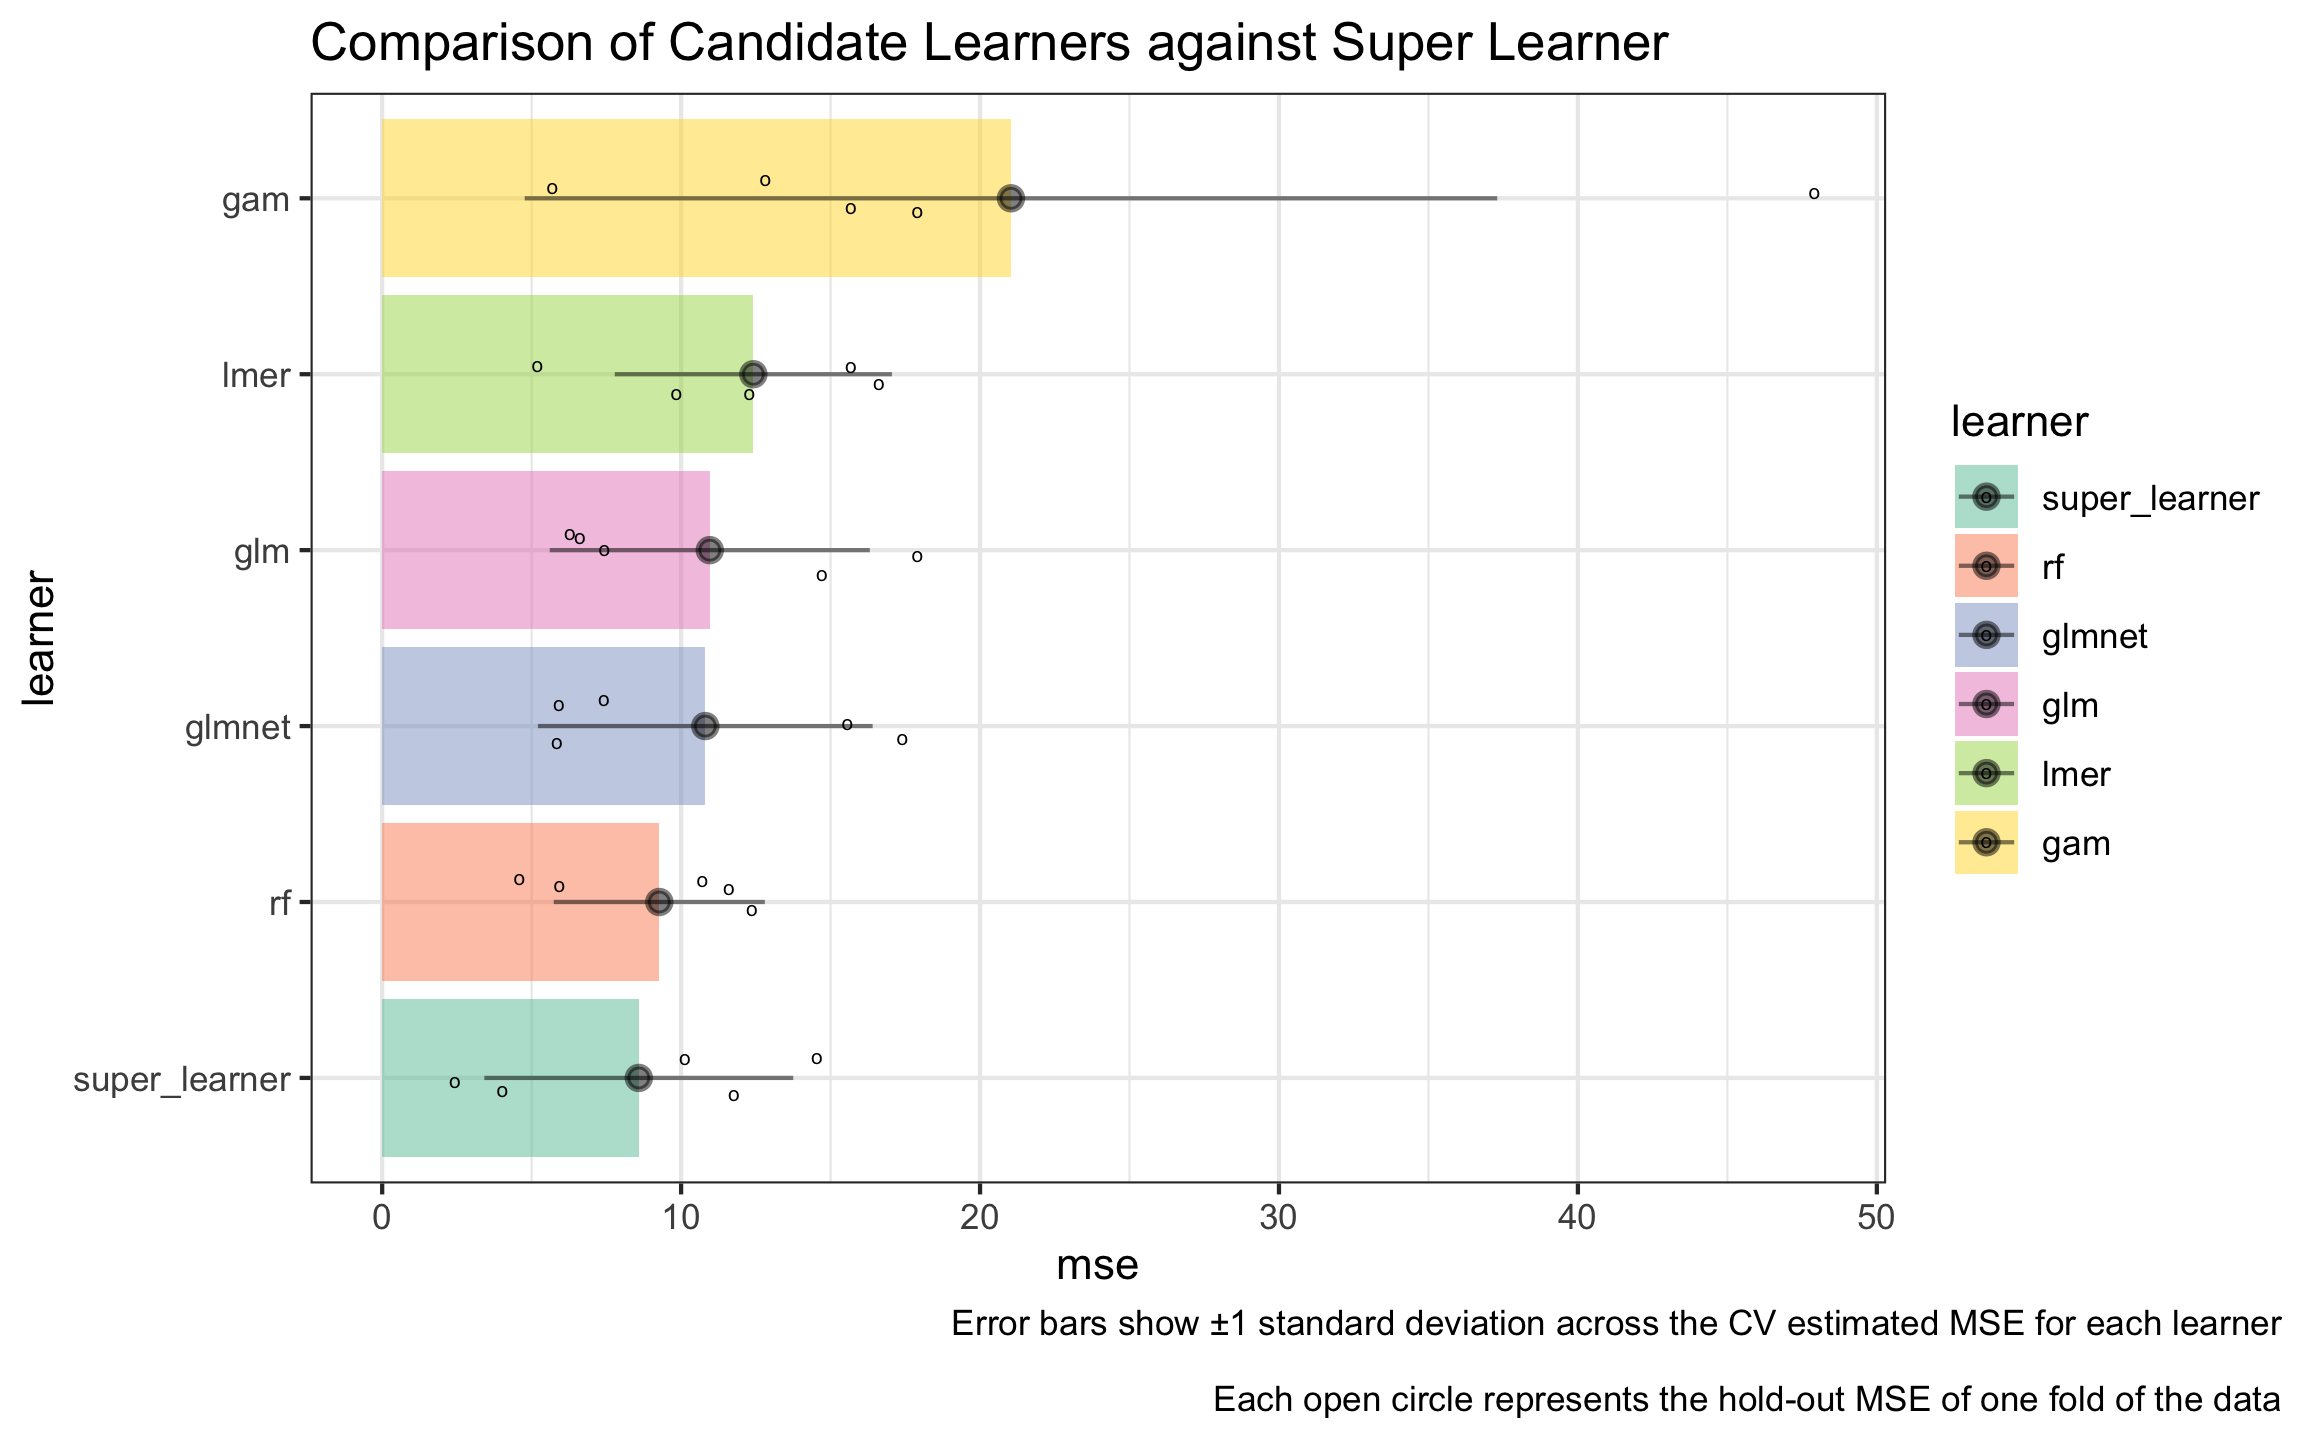
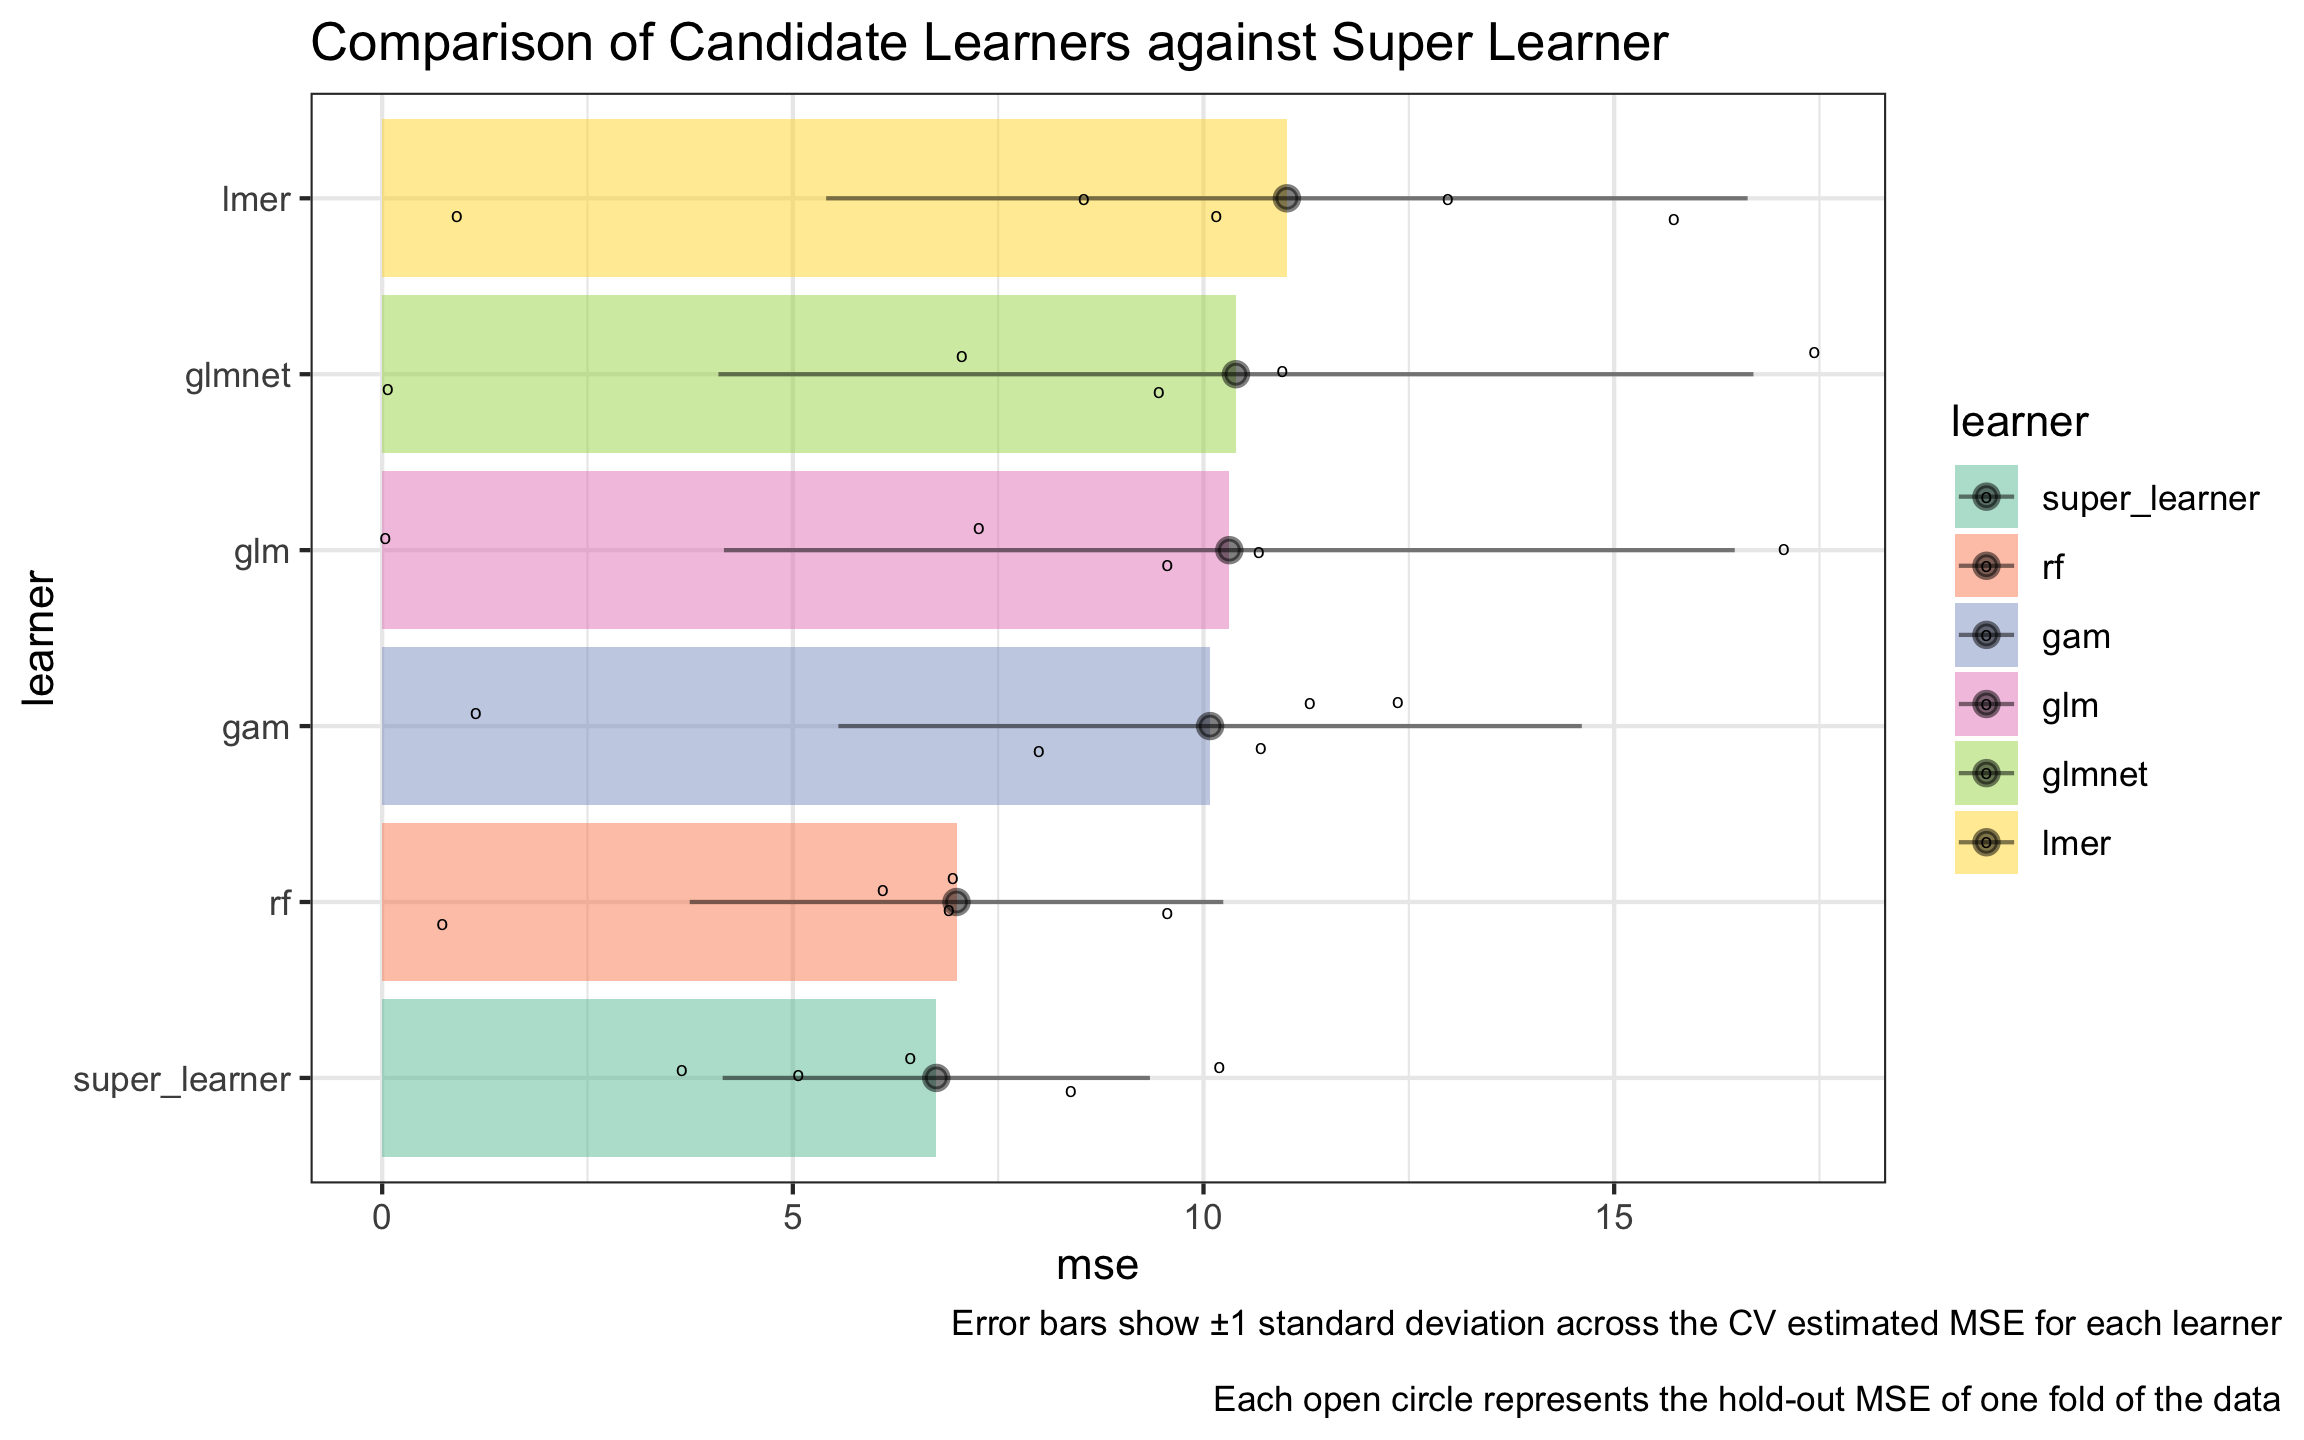
Changes to pass devtools::check()

diff --git a/README.md b/README.md
@@ -100,9 +100,9 @@ sl_model(mtcars) |> head()
 ```
 
     ##         Mazda RX4     Mazda RX4 Wag        Datsun 710    Hornet 4 Drive 
-    ##          20.36228          20.36228          24.89787          20.36228 
+    ##          20.78838          20.78798          24.21258          20.28348 
     ## Hornet Sportabout           Valiant 
-    ##          16.95507          19.93187
+    ##          17.73617          18.84018
 
 ### One Step Up: Fancy Formula Features
 
@@ -136,9 +136,9 @@ sl_model(mtcars) |> head()
 ```
 
     ##         Mazda RX4     Mazda RX4 Wag        Datsun 710    Hornet 4 Drive 
-    ##          20.44673          20.44673          24.86184          20.44673 
+    ##          20.59195          20.62712          24.25456          20.12639 
     ## Hornet Sportabout           Valiant 
-    ##          16.87359          20.08569
+    ##          17.66645          18.92455
 
 ### How should we assess performance of `nadir::super_learner()`?
 
@@ -170,7 +170,7 @@ compare_learners(sl_model)
     ## # A tibble: 1 × 5
     ##     glm    rf glmnet  lmer   gam
     ##   <dbl> <dbl>  <dbl> <dbl> <dbl>
-    ## 1  11.0  9.27   10.8  12.4  21.0
+    ## 1  10.3  6.99   10.4  11.0  10.1
 
 <details>
 <summary>
@@ -290,16 +290,16 @@ cv_results
 
     ## $cv_trained_learners
     ## # A tibble: 5 × 4
-    ##   split learned_predictor predictions mpg       
-    ##   <int> <list>            <list>      <list>    
-    ## 1     1 <function>        <dbl [11]>  <dbl [11]>
-    ## 2     2 <function>        <dbl [6]>   <dbl [6]> 
-    ## 3     3 <function>        <dbl [3]>   <dbl [3]> 
-    ## 4     4 <function>        <dbl [6]>   <dbl [6]> 
-    ## 5     5 <function>        <dbl [6]>   <dbl [6]> 
+    ##   split learned_predictor predictions mpg      
+    ##   <int> <list>            <list>      <list>   
+    ## 1     1 <function>        <dbl [7]>   <dbl [7]>
+    ## 2     2 <function>        <dbl [6]>   <dbl [6]>
+    ## 3     3 <function>        <dbl [6]>   <dbl [6]>
+    ## 4     4 <function>        <dbl [5]>   <dbl [5]>
+    ## 5     5 <function>        <dbl [8]>   <dbl [8]>
     ## 
     ## $cv_loss
-    ## [1] 9.403117
+    ## [1] 7.053775
 
 <details>
 <summary>
@@ -369,9 +369,9 @@ compare_learners(sl_model_iris)
     ## Other metrics can be set using the loss_metric argument to compare_learners.
 
     ## # A tibble: 1 × 3
-    ##      glm    rf glmnet
-    ##    <dbl> <dbl>  <dbl>
-    ## 1 0.0999 0.121  0.209
+    ##     glm    rf glmnet
+    ##   <dbl> <dbl>  <dbl>
+    ## 1 0.102 0.146  0.212
 
 ``` r
 sl_closure_iris <- function(data) {
@@ -386,7 +386,7 @@ cv_super_learner(data = iris, sl_closure_iris, y_variable = 'Sepal.Length')$cv_l
 
     ## The default is to report CV-MSE if no other loss_metric is specified.
 
-    ## [1] 0.1056222
+    ## [1] 0.1049377
 
 ### What about model hyperparameters or extra arguments?
 
@@ -439,7 +439,7 @@ compare_learners(sl_model)
     ## # A tibble: 1 × 6
     ##   glmnet0 glmnet1 glmnet2   rf0   rf1   rf2
     ##     <dbl>   <dbl>   <dbl> <dbl> <dbl> <dbl>
-    ## 1    24.5    9.42    7.82  12.7  7.29  7.84
+    ## 1    17.3    10.9    9.89  10.9  7.38  6.45
 
 #### Building New Learners Programmatically
 
@@ -486,7 +486,7 @@ compare_learners(sl_model_glmnet)
     ## # A tibble: 1 × 21
     ##   glmnet1 glmnet2 glmnet3 glmnet4 glmnet5 glmnet6 glmnet7 glmnet8 glmnet9
     ##     <dbl>   <dbl>   <dbl>   <dbl>   <dbl>   <dbl>   <dbl>   <dbl>   <dbl>
-    ## 1    7.49    7.44    7.43    7.40    7.39    7.40    7.43    7.48    7.57
+    ## 1    7.23    7.28    7.36    7.47    7.62    7.79    7.84    7.88    7.94
     ## # ℹ 12 more variables: glmnet10 <dbl>, glmnet11 <dbl>, glmnet12 <dbl>,
     ## #   glmnet13 <dbl>, glmnet14 <dbl>, glmnet15 <dbl>, glmnet16 <dbl>,
     ## #   glmnet17 <dbl>, glmnet18 <dbl>, glmnet19 <dbl>, glmnet20 <dbl>,

diff --git a/LICENSE.md b/LICENSE.md
@@ -1,0 +1,21 @@
+# MIT License
+
+Copyright (c) 2025 nadir authors
+
+Permission is hereby granted, free of charge, to any person obtaining a copy
+of this software and associated documentation files (the "Software"), to deal
+in the Software without restriction, including without limitation the rights
+to use, copy, modify, merge, publish, distribute, sublicense, and/or sell
+copies of the Software, and to permit persons to whom the Software is
+furnished to do so, subject to the following conditions:
+
+The above copyright notice and this permission notice shall be included in all
+copies or substantial portions of the Software.
+
+THE SOFTWARE IS PROVIDED "AS IS", WITHOUT WARRANTY OF ANY KIND, EXPRESS OR
+IMPLIED, INCLUDING BUT NOT LIMITED TO THE WARRANTIES OF MERCHANTABILITY,
+FITNESS FOR A PARTICULAR PURPOSE AND NONINFRINGEMENT. IN NO EVENT SHALL THE
+AUTHORS OR COPYRIGHT HOLDERS BE LIABLE FOR ANY CLAIM, DAMAGES OR OTHER
+LIABILITY, WHETHER IN AN ACTION OF CONTRACT, TORT OR OTHERWISE, ARISING FROM,
+OUT OF OR IN CONNECTION WITH THE SOFTWARE OR THE USE OR OTHER DEALINGS IN THE
+SOFTWARE.
